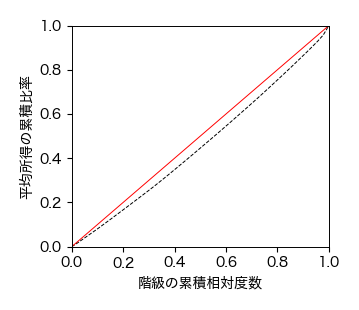
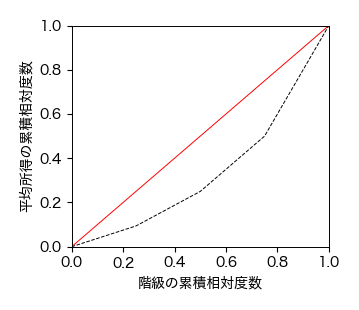
Update documentation

diff --git a/chap_4/chap_4.html b/chap_4/chap_4.html
@@ -1079,7 +1079,7 @@ Q_{3}-Q_{1}
 <p>まず，各人物を所得の小さい順に並べて<span class="math notranslate nohighlight">\( n \)</span>個の階級に等分する．
 その上で，下から<span class="math notranslate nohighlight">\( i \)</span>番目の階級の度数（人数）を<span class="math notranslate nohighlight">\( x_{i} \)</span>，累積相対度数を<span class="math notranslate nohighlight">\( X_{i} \)</span>とする．
 ここで，累積相対度数<span class="math notranslate nohighlight">\( X_{i} \)</span>とは，下から<span class="math notranslate nohighlight">\( i \)</span>までの階級に属する人物が全体に占める比率である．
-同様にして，階級<span class="math notranslate nohighlight">\( i \)</span>の平均所得を<span class="math notranslate nohighlight">\( y_{i} \)</span>，平均所得の累積比率を<span class="math notranslate nohighlight">\( Y_{i} \)</span>とする．
+同様にして，階級<span class="math notranslate nohighlight">\( i \)</span>の平均所得を<span class="math notranslate nohighlight">\( y_{i} \)</span>，平均所得の累積相対度数（累積比率）を<span class="math notranslate nohighlight">\( Y_{i} \)</span>とする．
 この場合，<span class="math notranslate nohighlight">\( Y_{i} \)</span>は下から<span class="math notranslate nohighlight">\( i \)</span>までの階級の平均所得が全体に占める比率となる．</p>
 <p>例えば，100人の集団を4つの階級（<span class="math notranslate nohighlight">\(n=4\)</span>）に等分した場合は以下のようになる（所得は適当に設定している）．</p>
 <div class="cell docutils container">
@@ -1095,7 +1095,7 @@ Q_{3}-Q_{1}
 <div class="cell docutils container">
 <div class="cell_input docutils container">
 <div class="highlight-ipython3 notranslate"><div class="highlight"><pre><span></span><span class="n">pd</span><span class="o">.</span><span class="n">DataFrame</span><span class="p">(</span><span class="n">np</span><span class="o">.</span><span class="n">c_</span><span class="p">[</span><span class="n">x</span><span class="p">,</span> <span class="n">X</span><span class="p">,</span> <span class="n">y</span><span class="p">,</span> <span class="n">Y</span><span class="p">],</span>
-             <span class="n">columns</span><span class="o">=</span><span class="p">[</span><span class="s1">&#39;度数x&#39;</span><span class="p">,</span> <span class="s1">&#39;累積相対度数X&#39;</span><span class="p">,</span> <span class="s1">&#39;平均所得y&#39;</span><span class="p">,</span> <span class="s1">&#39;平均所得の累積比率Y&#39;</span><span class="p">],</span>
+             <span class="n">columns</span><span class="o">=</span><span class="p">[</span><span class="s1">&#39;度数x&#39;</span><span class="p">,</span> <span class="s1">&#39;累積相対度数X&#39;</span><span class="p">,</span> <span class="s1">&#39;平均所得y&#39;</span><span class="p">,</span> <span class="s1">&#39;平均所得の累積相対度数Y&#39;</span><span class="p">],</span>
              <span class="n">index</span><span class="o">=</span><span class="p">[</span><span class="mi">1</span><span class="p">,</span><span class="mi">2</span><span class="p">,</span><span class="mi">3</span><span class="p">,</span><span class="mi">4</span><span class="p">])</span>
 </pre></div>
 </div>
@@ -1122,7 +1122,7 @@ Q_{3}-Q_{1}
       <th>度数x</th>
       <th>累積相対度数X</th>
       <th>平均所得y</th>
-      <th>平均所得の累積比率Y</th>
+      <th>平均所得の累積相対度数Y</th>
     </tr>
   </thead>
   <tbody>
@@ -1158,7 +1158,7 @@ Q_{3}-Q_{1}
 </table>
 </div></div></div>
 </div>
-<p>次に，横軸に階級の累積相対度数<span class="math notranslate nohighlight">\( X_{i} \)</span>，縦軸に平均所得の累積比率<span class="math notranslate nohighlight">\( Y_{i} \)</span>を取ったグラフを考える．
+<p>次に，横軸に階級の累積相対度数<span class="math notranslate nohighlight">\( X_{i} \)</span>，縦軸に平均所得の累積相対度数<span class="math notranslate nohighlight">\( Y_{i} \)</span>を取ったグラフを考える．
 これを<strong>ローレンツ曲線</strong>と呼ぶ．
 ローレンツ曲線の横軸，縦軸は（比率なので）0から1の範囲であり，必ず両端が<span class="math notranslate nohighlight">\( (0, 0) \)</span>と<span class="math notranslate nohighlight">\( (1, 1) \)</span>の折れ線グラフとなる．
 ローレンツ曲線上の<span class="math notranslate nohighlight">\( (X, Y) \)</span>という点は，集団全体の貧しい側から<span class="math notranslate nohighlight">\( X\times100 \)</span>%の人が全体の<span class="math notranslate nohighlight">\( Y\times100 \)</span>%の所得を占めることを表す．
@@ -1178,7 +1178,7 @@ Q_{3}-Q_{1}
 <span class="n">ax</span><span class="o">.</span><span class="n">set_xlim</span><span class="p">(</span><span class="mi">0</span><span class="p">,</span> <span class="mi">1</span><span class="p">)</span>
 <span class="n">ax</span><span class="o">.</span><span class="n">set_ylim</span><span class="p">(</span><span class="mi">0</span><span class="p">,</span> <span class="mi">1</span><span class="p">)</span>
 <span class="n">ax</span><span class="o">.</span><span class="n">set_xlabel</span><span class="p">(</span><span class="sa">u</span><span class="s1">&#39;階級の累積相対度数&#39;</span><span class="p">,</span> <span class="n">fontsize</span><span class="o">=</span><span class="mi">15</span><span class="p">)</span>
-<span class="n">ax</span><span class="o">.</span><span class="n">set_ylabel</span><span class="p">(</span><span class="sa">u</span><span class="s1">&#39;所得の累積比率&#39;</span><span class="p">,</span> <span class="n">fontsize</span><span class="o">=</span><span class="mi">15</span><span class="p">);</span>
+<span class="n">ax</span><span class="o">.</span><span class="n">set_ylabel</span><span class="p">(</span><span class="sa">u</span><span class="s1">&#39;所得の累積相対度数&#39;</span><span class="p">,</span> <span class="n">fontsize</span><span class="o">=</span><span class="mi">15</span><span class="p">);</span>
 <span class="n">fig</span><span class="o">.</span><span class="n">savefig</span><span class="p">(</span><span class="s1">&#39;./lorentz.pdf&#39;</span><span class="p">,</span> <span class="n">bbox_inches</span><span class="o">=</span><span class="s2">&quot;tight&quot;</span><span class="p">,</span> <span class="n">pad_inches</span><span class="o">=</span><span class="mf">0.2</span><span class="p">,</span> <span class="n">transparent</span><span class="o">=</span><span class="kc">True</span><span class="p">,</span> <span class="n">dpi</span><span class="o">=</span><span class="mi">300</span><span class="p">)</span>
 </pre></div>
 </div>
@@ -1248,7 +1248,7 @@ Q_{3}-Q_{1}
 <thead>
 <tr class="row-odd"><th class="text-align:center head"><p>階級</p></th>
 <th class="text-align:center head"><p>累積相対度数（横軸）</p></th>
-<th class="text-align:center head"><p>所得の累積比率（縦軸）</p></th>
+<th class="text-align:center head"><p>所得の累積相対度数（縦軸）</p></th>
 </tr>
 </thead>
 <tbody>
@@ -1649,7 +1649,7 @@ Q_{3}-Q_{1}
 <span class="n">ax</span><span class="o">.</span><span class="n">set_xlim</span><span class="p">(</span><span class="mi">0</span><span class="p">,</span> <span class="mi">1</span><span class="p">)</span>
 <span class="n">ax</span><span class="o">.</span><span class="n">set_ylim</span><span class="p">(</span><span class="mi">0</span><span class="p">,</span> <span class="mi">1</span><span class="p">)</span>
 <span class="n">ax</span><span class="o">.</span><span class="n">set_xlabel</span><span class="p">(</span><span class="sa">u</span><span class="s1">&#39;階級の累積相対度数&#39;</span><span class="p">)</span>
-<span class="n">ax</span><span class="o">.</span><span class="n">set_ylabel</span><span class="p">(</span><span class="sa">u</span><span class="s1">&#39;平均所得の累積比率&#39;</span><span class="p">)</span>
+<span class="n">ax</span><span class="o">.</span><span class="n">set_ylabel</span><span class="p">(</span><span class="sa">u</span><span class="s1">&#39;平均所得の累積相対度数&#39;</span><span class="p">)</span>
 
 <span class="n">fig</span><span class="o">.</span><span class="n">savefig</span><span class="p">(</span><span class="s1">&#39;./lorenz_curve.png&#39;</span><span class="p">,</span> <span class="n">bbox_inches</span><span class="o">=</span><span class="s2">&quot;tight&quot;</span><span class="p">,</span> <span class="n">pad_inches</span><span class="o">=</span><span class="mf">0.2</span><span class="p">,</span> <span class="n">transparent</span><span class="o">=</span><span class="kc">False</span><span class="p">,</span> <span class="n">dpi</span><span class="o">=</span><span class="mi">300</span><span class="p">)</span>
 </pre></div>
